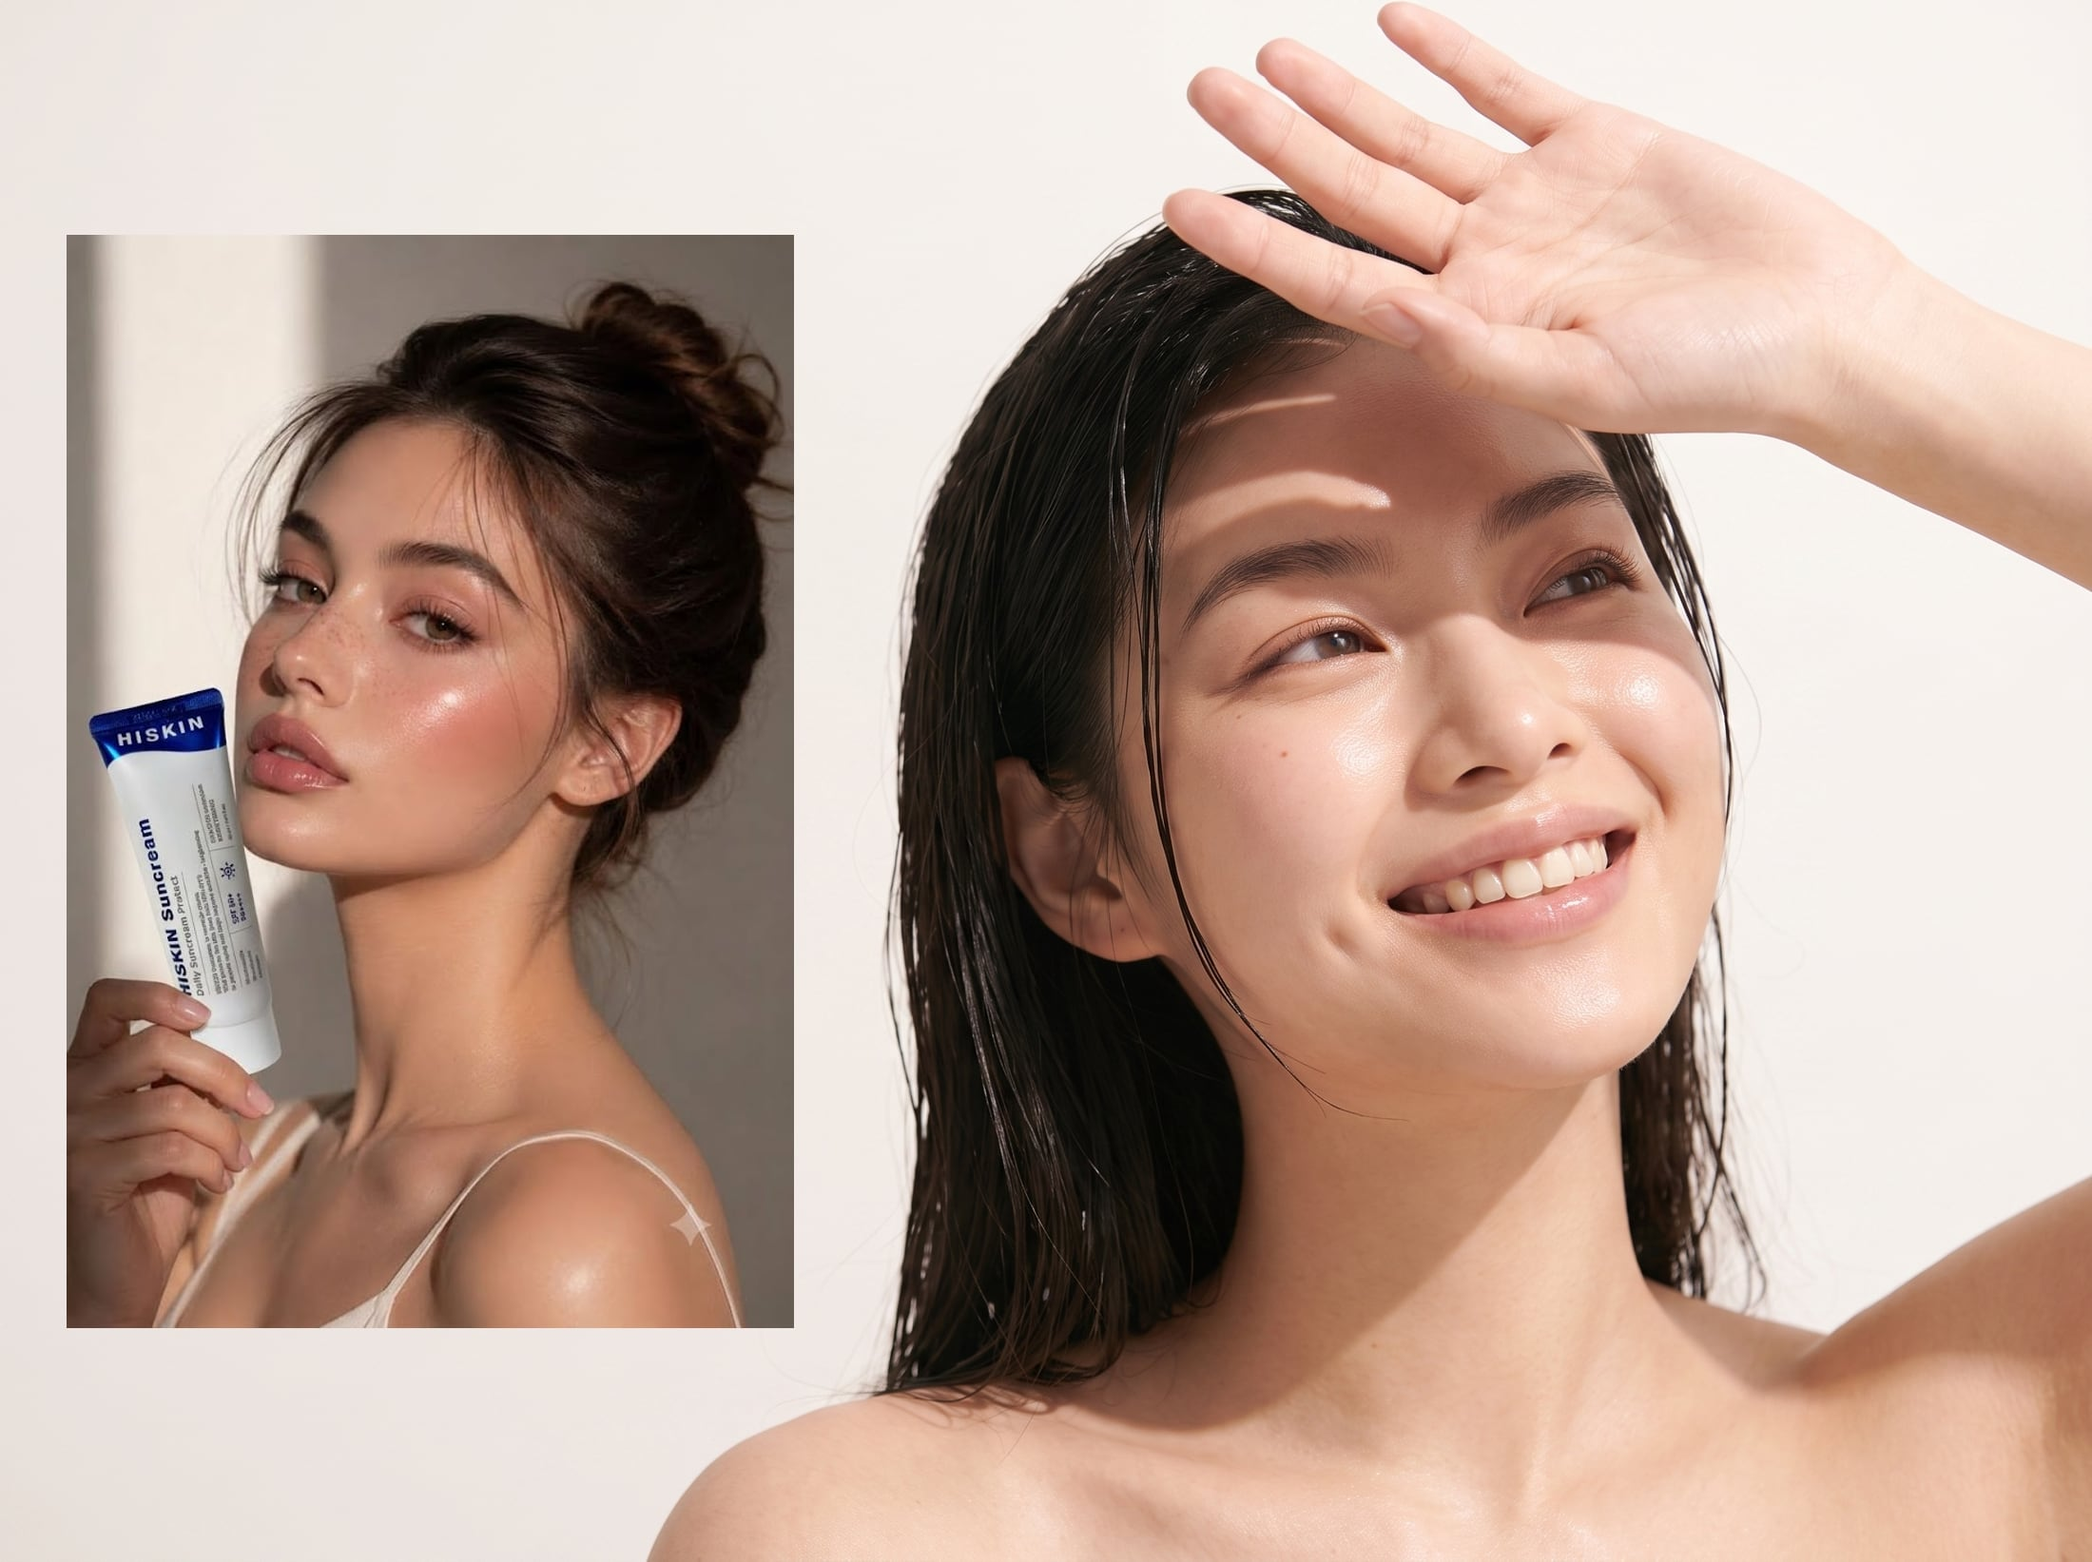
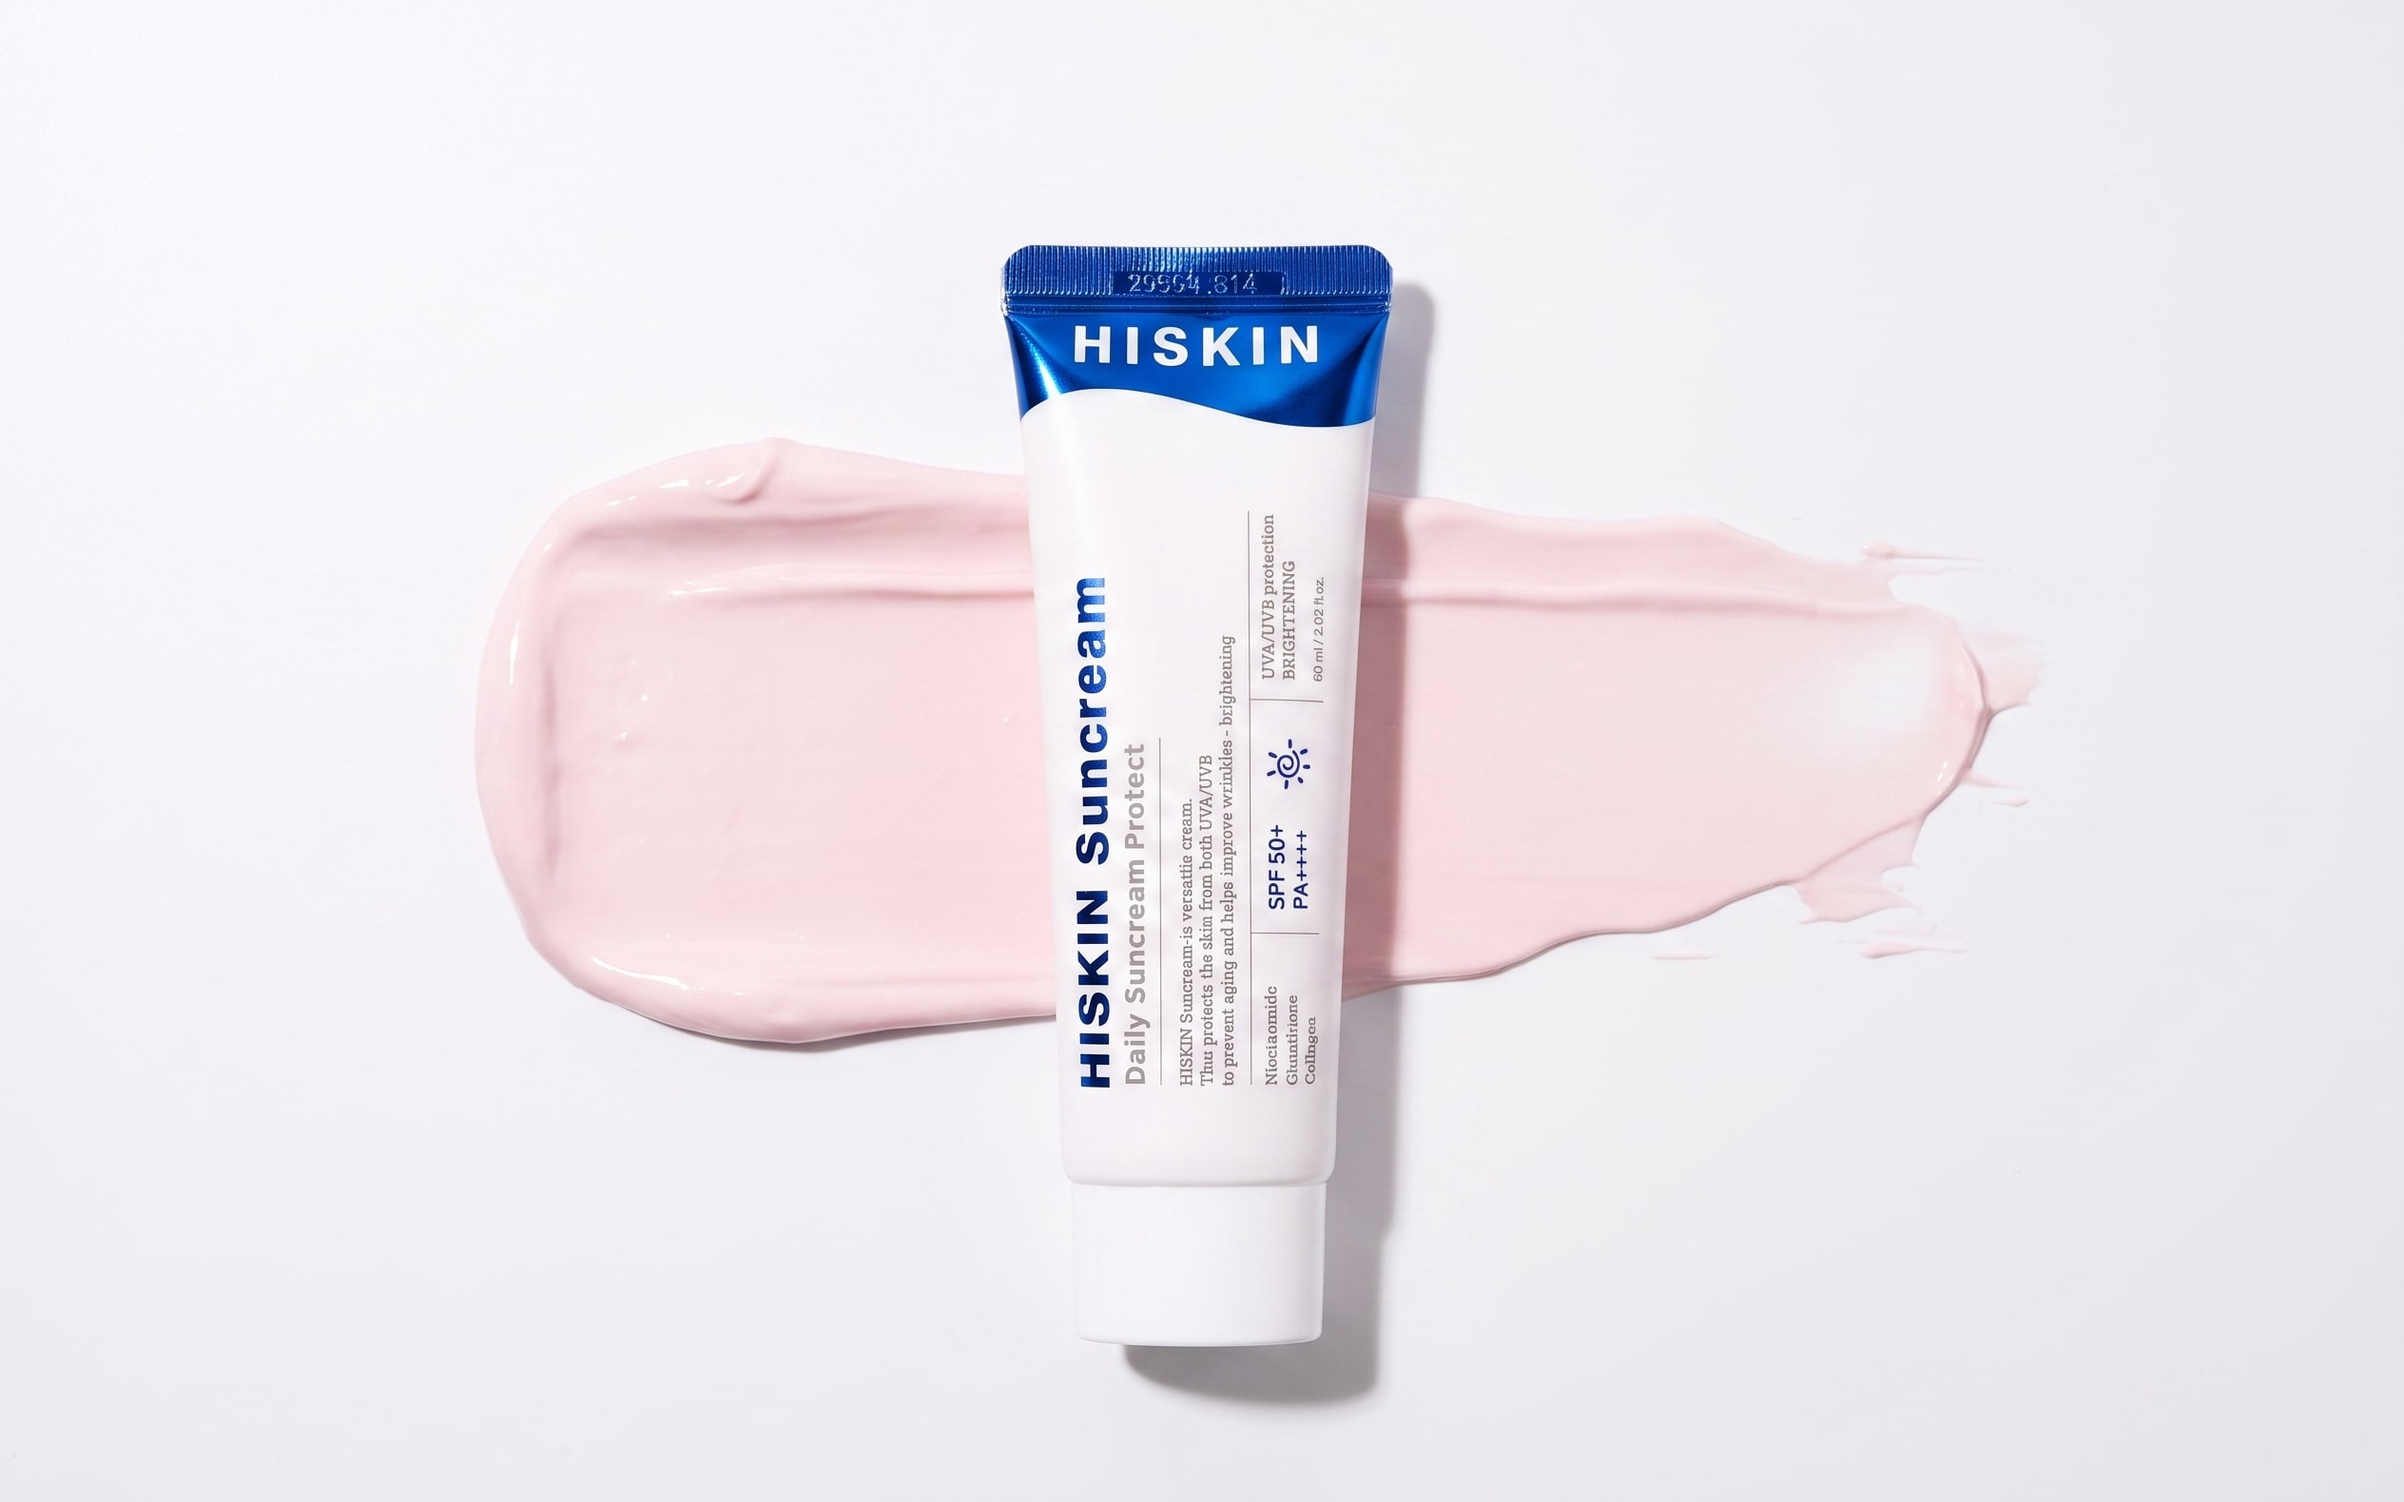
Rebuild the product-detail shot around the real tube, and rescale both side columns
The spec-sheet photo was the two-photo collage with a mirrored, garbled
tube; it now shows one clean flatlay generated from the real product photo,
so the brand name, SPF 50+ / PA++++ and volume all read correctly. The
detail page and the archive want different crops of it — 4:3 with the tube
large versus 16:10 — and one shared file could not satisfy both without
clipping the tube in the archive, so the tight crop is a new slot (img-15)
and img-08 keeps the wider framing for the archive alone.

The section sits on white now instead of paper-alt: the photo's own
background is white, so the image edge disappears into the page.

Spec sheet: one size up again (labels 16px, values 21px) and stretched to
the photo's edges — the grid rows share the leftover height between the
eyebrow at the top edge and the CTA at the bottom, instead of floating
centered beside a much taller image.

Philosophy routine: the HISKIN acrostic list read like a footnote against
the display headline (16px against 3.6rem), so initials 30px, labels 22px,
descriptions 17px. The initial column is sized in em, so the acrostic
alignment survives the change.

diff --git a/src/components/ProductDetail.tsx b/src/components/ProductDetail.tsx
@@ -54,30 +54,33 @@ export default function ProductDetail() {
     <section
       id="product"
       ref={sectionRef}
-      className="bg-paper-alt"
+      className="bg-paper"
     >
-      <div className="grid items-center gap-14 px-6 py-24 md:grid-cols-[minmax(0,7fr)_minmax(0,4fr)] md:gap-24 md:px-[80px] md:py-36">
+      {/* items-stretch + the row list soaking up the leftover height is what
+          pins the spec sheet to the photo: eyebrow at the photo's top edge,
+          CTA at its bottom edge, rows sharing the space between. */}
+      <div className="grid items-center gap-14 px-6 py-24 md:grid-cols-[minmax(0,7fr)_minmax(0,4fr)] md:items-stretch md:gap-24 md:px-[80px] md:py-36">
         <div data-pd-img>
           <PlaceholderImage
-            name="img-08"
-            alt="HISKIN Daily Suncream Protect — product"
+            name="img-15"
+            alt="핑크 제형 위에 놓인 HISKIN 데일리 선크림 튜브"
             aspect="aspect-[4/3]"
             className="w-full"
-            label="IMG 08 · 4:3"
+            label="IMG 15 · 4:3"
           />
         </div>
 
-        <div data-pd-list>
+        <div data-pd-list className="flex flex-col">
           <p className="eyebrow-tag mb-8">Daily Suncream Protect</p>
-          <div>
+          <div className="flex flex-1 flex-col">
             {SPECS.map((spec) => (
               <div
                 key={spec.label}
                 data-pd-row
-                className="border-b border-hairline py-5 first:border-t md:py-6"
+                className="flex flex-1 flex-col justify-center border-b border-hairline py-5 first:border-t"
               >
-                <p className="text-[14px] text-mute md:text-[15px]">{spec.label}</p>
-                <p className="mt-1.5 text-[17px] font-medium leading-snug text-ink md:text-[19px]">
+                <p className="text-[15px] text-mute md:text-base">{spec.label}</p>
+                <p className="mt-1.5 text-lg font-medium leading-snug text-ink md:text-[21px]">
                   {spec.value}
                 </p>
               </div>
@@ -86,7 +89,7 @@ export default function ProductDetail() {
           <a
             data-pd-row
             href="#inquiry"
-            className="group mt-10 flex w-full items-center justify-center gap-2 bg-ink px-8 py-4 text-sm font-medium text-white transition-opacity hover:opacity-85"
+            className="group mt-8 flex w-full items-center justify-center gap-2 bg-ink px-8 py-4 text-[15px] font-medium text-white transition-opacity hover:opacity-85 md:py-5 md:text-base"
           >
             Submit B2B Inquiry
             <ArrowRight

diff --git a/src/components/Philosophy.tsx b/src/components/Philosophy.tsx
@@ -151,28 +151,28 @@ export default function Philosophy() {
             data-phil-aside
             className="flex flex-col xl:col-span-5 xl:pt-2"
           >
-            <p className="text-[15px] leading-relaxed text-white/60 md:text-base">
+            <p className="text-base leading-relaxed text-white/60 md:text-lg">
               두껍게 덮는 메이크업 대신 본연의 가벼운 숨결을 선택합니다.
             </p>
-            <p className="mt-3 text-[15px] font-medium leading-relaxed text-white md:text-base">
+            <p className="mt-3 text-base font-medium leading-relaxed text-white md:text-lg">
               HISKIN이 제안하는 6가지 데일리 파데 프리 루틴
             </p>
 
-            <ul data-phil-list className="mt-8">
+            <ul data-phil-list className="mt-10">
               {ROUTINE.map((item, i) => (
                 <li
                   key={i}
                   data-phil-row
-                  className="flex gap-5 border-t border-white/12 py-4 last:border-b md:gap-6"
+                  className="flex gap-5 border-t border-white/12 py-5 last:border-b md:gap-7 md:py-6"
                 >
-                  <span className="w-[1.05em] shrink-0 font-display text-xl font-bold leading-[1.35] text-rose md:text-2xl">
+                  <span className="w-[1.05em] shrink-0 font-display text-2xl font-bold leading-[1.3] text-rose md:text-3xl">
                     {item.letter}
                   </span>
                   <span className="min-w-0">
-                    <span className="block text-[15px] font-semibold leading-[1.5] text-white md:text-base">
+                    <span className="block text-lg font-semibold leading-[1.4] text-white md:text-[22px]">
                       {item.label}
                     </span>
-                    <span className="mt-0.5 block text-[14px] leading-relaxed text-white/55 md:text-[15px]">
+                    <span className="mt-1 block text-[15px] leading-relaxed text-white/55 md:text-[17px]">
                       {item.desc}
                     </span>
                   </span>

diff --git a/src/components/ArchiveGallery.tsx b/src/components/ArchiveGallery.tsx
@@ -59,7 +59,7 @@ export default function ArchiveGallery() {
           <div data-arc-item className="group overflow-hidden">
             <PlaceholderImage
               name="img-08"
-              alt="Travertine stone product display"
+              alt="핑크 제형 위에 놓인 HISKIN 데일리 선크림 튜브"
               aspect="aspect-[16/10] md:aspect-auto md:h-full"
               className="h-full w-full"
               imgClassName="transition-transform duration-700 group-hover:scale-[1.03]"

diff --git a/public/images/README.md b/public/images/README.md
@@ -12,7 +12,8 @@
 | img-05.jpg | 4:3           | ✅ 성분 02 — Glutathione & Niacinamide (AI 생성)      |
 | img-06.jpg | 4:3           | ✅ 성분 03 — Collagen & Peptide (AI 생성)             |
 | img-07.jpg | 4:3           | ✅ 성분 04 — White Truffle & Botanicals (AI 생성)     |
-| img-08.jpg | 4:3 / 가로    | 제품 상세 좌측 대형 + 아카이브 대형                   |
+| img-08.jpg | 4:3 / 가로    | ✅ 적용됨 — 핑크 제형 위 튜브 (여백 넓은 버전, 아카이브 대형 전용) |
+| img-15.jpg | 4:3           | ✅ 적용됨 — 같은 컷의 타이트 크롭 (제품 상세 좌측 대형 전용). 아카이브 16:10과 크롭 요구가 달라 파일을 분리 |
 | img-09.jpg | 2:3           | ✅ 적용됨 — 핑크빛 물속의 제품 (AI 생성). 문장 속 글자 크기 → 트리오 가운데(3:5) → 아카이브(3:4), 세 배율을 다 견뎌야 함 |
 | img-10.jpg | 9:16          | ✅ 적용됨 — 벚꽃 + 연분홍 제형에 새긴 HISKIN 글씨 (AI 생성). 3:5로 잘려도 글씨가 안 잘리도록 캔버스를 세로로 넓힌 파일 |
 | img-11.jpg | 16:9          | ✅ 적용됨 — 공장 01 연구실                             |
